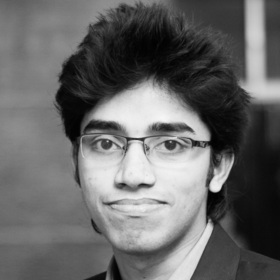
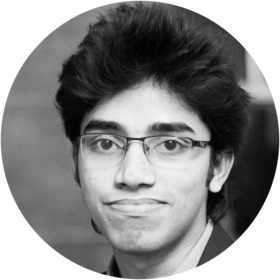
add crop image

Changed region(s): [[0.0, 0.0, 1.0, 1.0]]

diff --git a/index.html b/index.html
@@ -43,7 +43,7 @@
               </p>
             </td>
             <td style="padding:2.5%;width:40%;max-width:40%">
-              <a href="images/Minar.png"><img style="width:100%;max-width:100%" alt="profile photo" src="images/Minar_circle.jpg" class="hoverZoomLink"></a>
+              <a href="images/Minar.jpg"><img style="width:100%;max-width:100%" alt="profile photo" src="images/Minar_circle.jpg" class="hoverZoomLink"></a>
             </td>
           </tr>
         </tbody></table>
